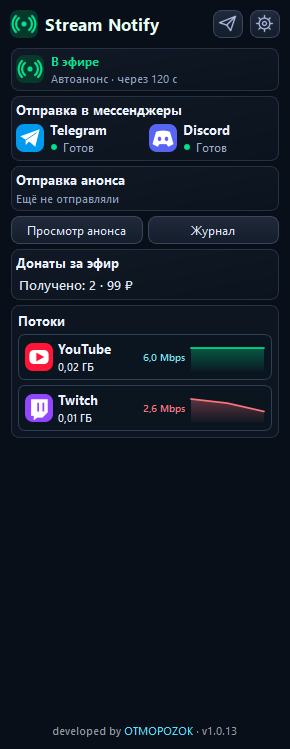
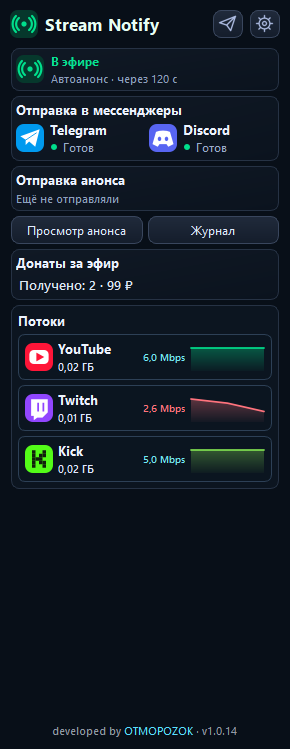
Document Kick streams and refresh Stream Notify screenshots

Changed region(s): [[0.4966, 0.5834, 0.9621, 0.6449], [0.031, 0.5834, 0.3414, 0.6449]]

diff --git a/docs/README_EN.md b/docs/README_EN.md
@@ -1,17 +1,18 @@
 # Stream Notify
 
-**Stream and donation announcements from OBS to Telegram and Discord.** The plugin runs on your computer without a project-operated server. [Русский](../README.md).
+**Twitch, YouTube and Kick stream announcements, plus donation messages from OBS to Telegram and Discord.** The plugin runs on your computer without a project-operated server. [Русский](../README.md).
 
 | Waiting for a stream | During a broadcast |
 | --- | --- |
 | ![Stream Notify home dock](screenshots/home.png) | ![Outputs, bitrate, and graphs](screenshots/monitoring.png) |
 
-*Version 1.0.13 UI previews were made in an isolated test environment. Shown accounts and outputs are sample data.*
+*Version 1.0.14 UI previews were made in an isolated test environment. Shown accounts and outputs are sample data.*
 [Narrow 275 px dock](screenshots/home-narrow.png).
 
 ## Features
 
-- Send an automatic announcement after the YouTube or Twitch API confirms a live broadcast. A second-platform announcement and manual fallback links are configurable. [Verification details](AUTO_ANNOUNCEMENTS_RU.md).
+- Recognize Twitch, YouTube and Kick outputs, with a separate tile, bitrate, graph and transferred data for each service.
+- Send an automatic announcement after a service confirms a live broadcast. A later second or third platform announcement and fallback links are configurable. [Verification details](AUTO_ANNOUNCEMENTS_RU.md).
 - Set recipients, text, and announcement delay in the OBS dock. See the latest delivery result at a glance.
 - Receive DonationAlerts and DonatePay donation notifications with sender, amount, message, and configurable thresholds. [Donation setup](../README_DONATIONS_RU.md).
 - Monitor active outputs: **LIVE**, current bitrate, a graph of the last 30 minutes, and transferred data.
@@ -19,7 +20,7 @@
 
 ## How the plugins work together
 
-Stream Notify works on its own when you sign in here and configure recipients. If Stream Chat is installed, Notify may use its protected sign-ins only to check live status. Stream Stats can read Notify's local counters; it does not send announcements.
+Stream Notify works on its own when you sign in here and configure recipients. If Stream Chat is installed, Notify may use its protected Twitch and YouTube sign-ins and its Kick channel name only to check live status. Stream Stats can read Notify's local counters; it does not send announcements.
 
 ## Install
 
